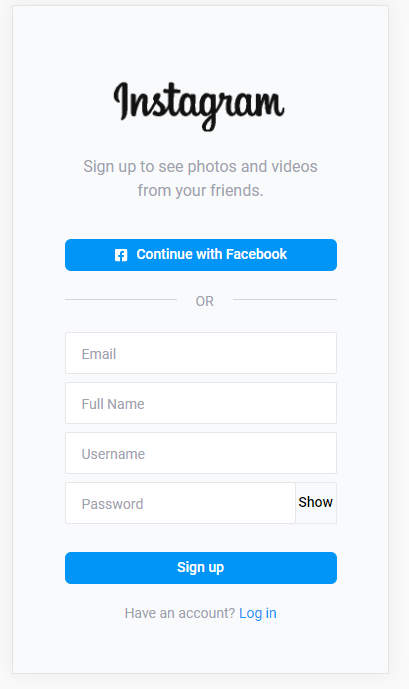
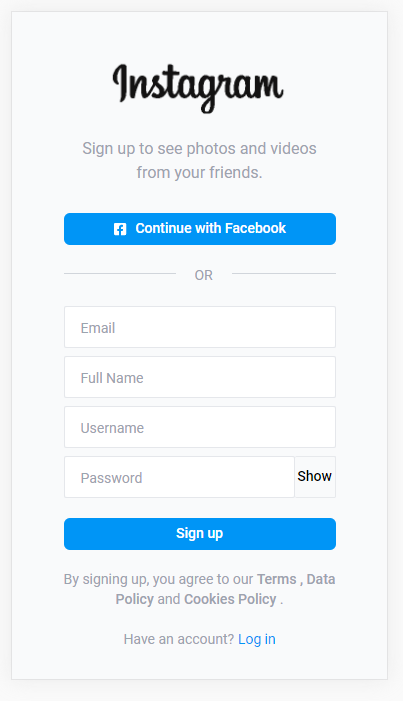
update: cookies policy section

diff --git a/src/routes/signup/Signup.tsx b/src/routes/signup/Signup.tsx
@@ -89,6 +89,10 @@ const Signup = () => {
         </button>
       </form>
       {inputError && <div className="mt-5 w-68 text-red-500 text-sm">{inputError}</div>}
+      <section className="text-sm w-68 text-gray-400 mt-5">
+        By signing up, you agree to our <span className="font-medium">Terms , Data Policy</span> and{' '}
+        <span className="font-medium">Cookies Policy</span> .
+      </section>
       <div className="text-sm w-68 text-gray-400 mt-5">
         Have an account? <a href="/login">Log in</a>
       </div>

diff --git a/src/routes/signup/signup.scss b/src/routes/signup/signup.scss
@@ -1,7 +1,7 @@
 @use '/src/scss';
 
 .signup-container {
-  @apply max-w-sm mx-auto flex flex-col items-center my-16;
+  @apply max-w-sm mx-auto flex flex-col items-center my-10;
 
   form {
     @apply flex flex-col items-center justify-items-center w-full mt-6;
@@ -13,5 +13,5 @@
 
 .signup-form-button {
   background-color: scss.$button-background-blue;
-  @apply w-68 mt-7 h-8 rounded-md text-white text-sm font-medium;
+  @apply w-68 mt-5 h-8 rounded-md text-white text-sm font-medium;
 }
